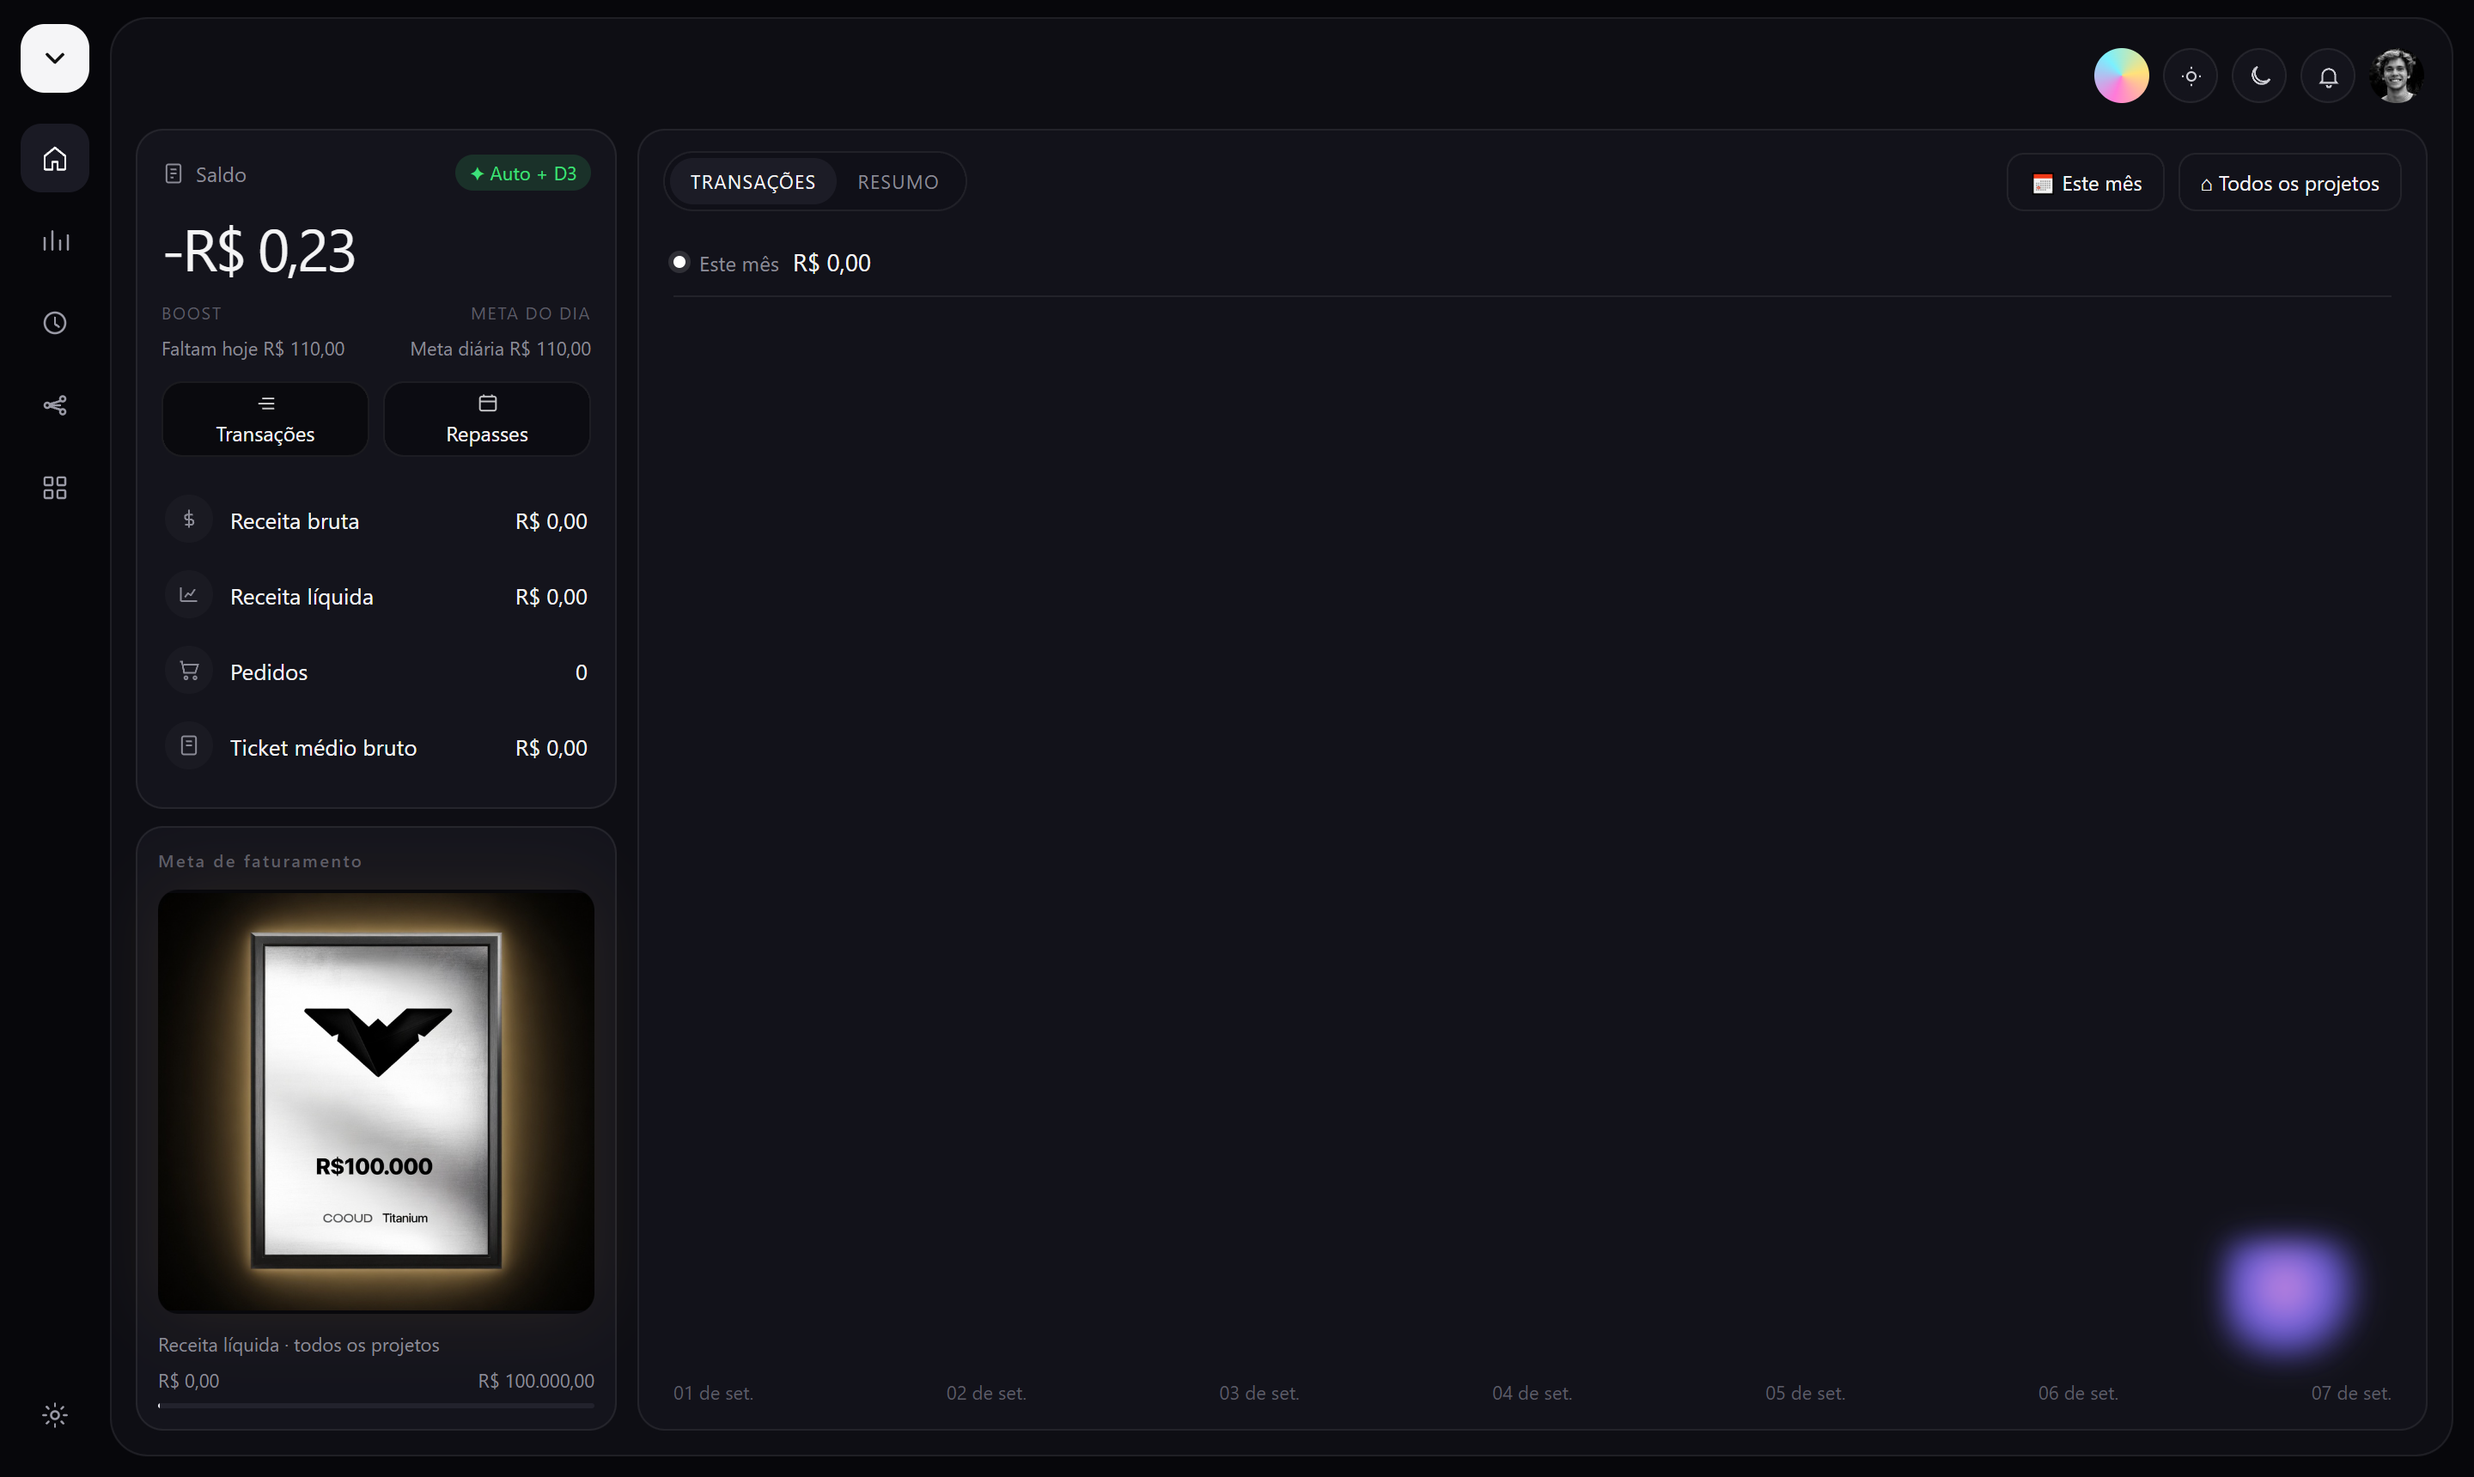
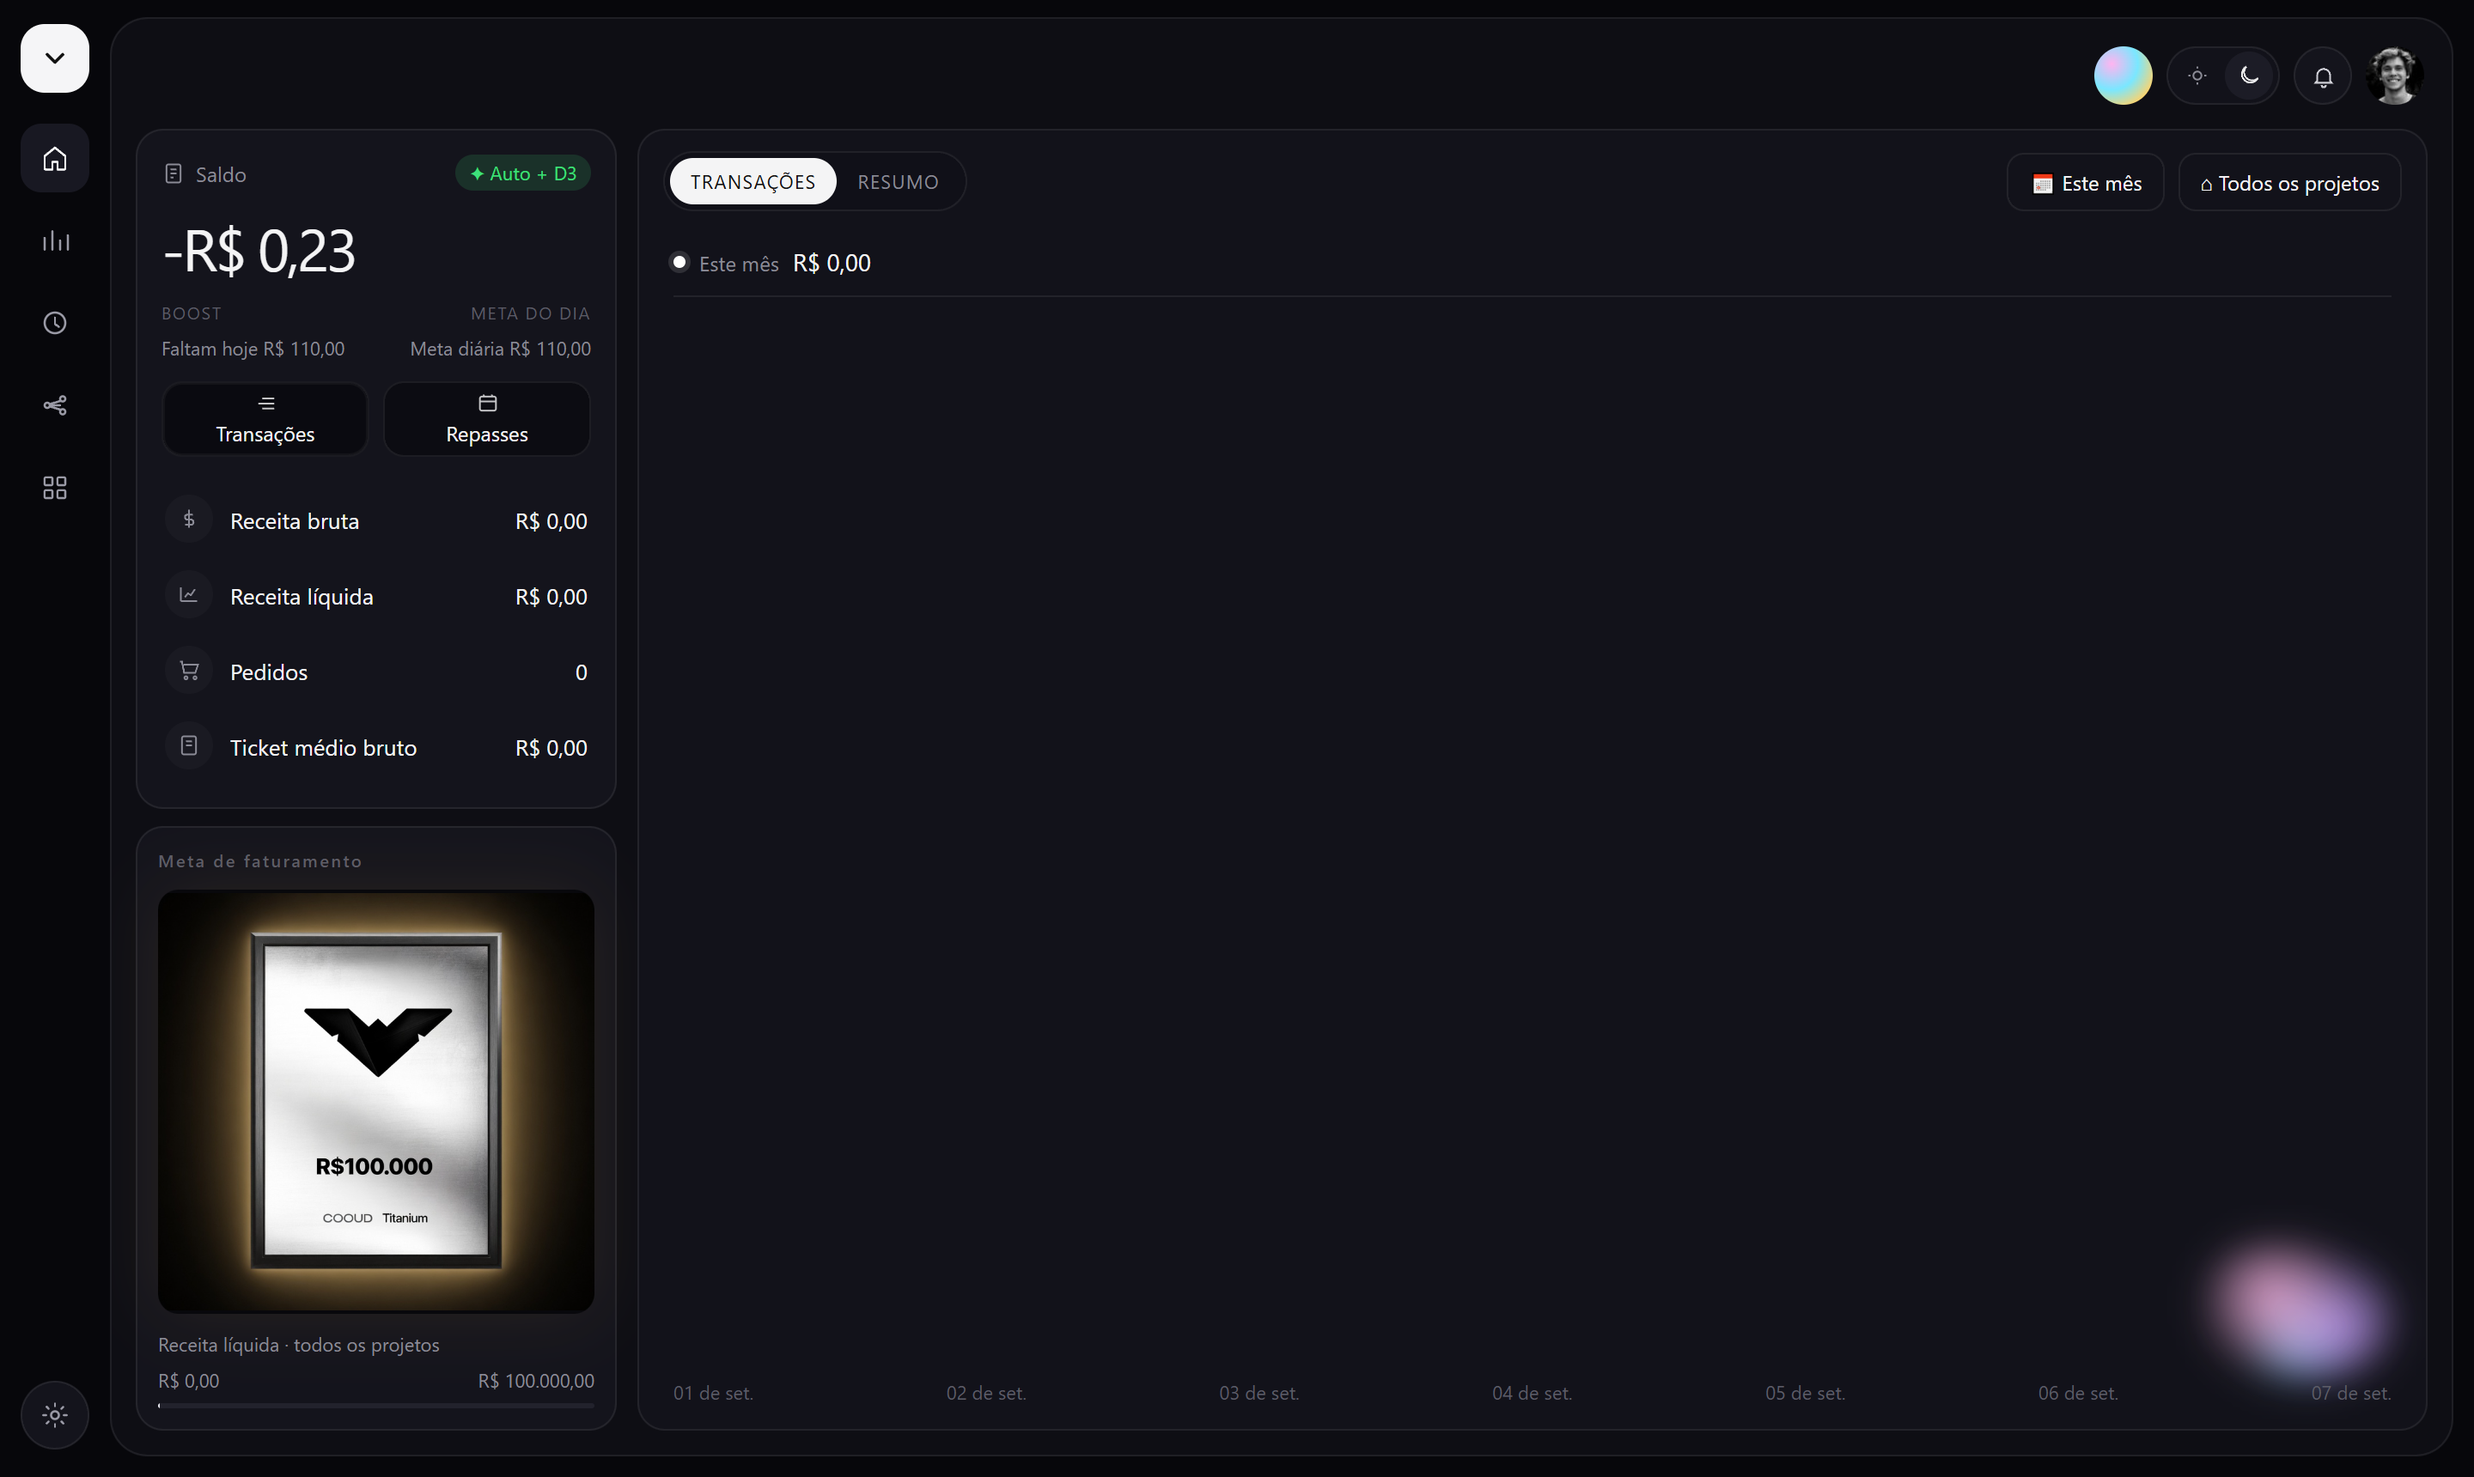
feat: match dashboard.cooud.com chrome (tabs, theme, blob)

diff --git a/output/preview/cooud-dashboard.html b/output/preview/cooud-dashboard.html
@@ -48,7 +48,10 @@
       text-decoration: none;
     }
     .rail a:hover { background: #16161e; color: #fff; }
-    .rail a.active { background: #1a1a24; color: #fff; }
+    .rail a.active { background: #181822; color: #fff; }
+    .rail .gear {
+      width: 40px; height: 40px; border-radius: 99px; background: #14141c; border: 1px solid var(--line);
+    }
     .rail .spacer { flex: 1; }
     .rail svg { width: 18px; height: 18px; stroke: currentColor; fill: none; stroke-width: 1.7; stroke-linecap: round; stroke-linejoin: round; }
 
@@ -68,15 +71,25 @@
       padding: 10px 16px 0;
     }
     .orb {
-      width: 32px; height: 32px; border-radius: 99px;
-      background: conic-gradient(from 200deg, #ff7ad9, #7af0ff, #ffe27a, #ff7ad9);
+      width: 34px; height: 34px; border-radius: 99px;
+      background: radial-gradient(circle at 30% 30%, #ffb4f0, #7ae7ff 45%, #ffd36a 80%);
     }
+    .theme {
+      display: flex; align-items: center; gap: 2px; height: 34px; padding: 3px;
+      border-radius: 99px; border: 1px solid var(--line); background: #12121a;
+    }
+    .theme button {
+      width: 28px; height: 28px; border: 0; border-radius: 99px; background: transparent;
+      color: #8b8b96; display: grid; place-items: center; cursor: pointer;
+    }
+    .theme button.on { background: #1c1c26; color: #eee; }
+    .theme svg { width: 14px; height: 14px; }
     .chip {
-      width: 32px; height: 32px; border-radius: 99px; border: 1px solid var(--line);
+      width: 34px; height: 34px; border-radius: 99px; border: 1px solid var(--line);
       background: #14141c; display: grid; place-items: center; color: #cfcfd6;
     }
     .chip svg { width: 15px; height: 15px; }
-    .ava { width: 32px; height: 32px; border-radius: 99px; object-fit: cover; }
+    .ava { width: 34px; height: 34px; border-radius: 99px; object-fit: cover; }
 
     .body {
       display: grid;
@@ -107,7 +120,7 @@
       background: #0c0c12; color: var(--fg); font: inherit; font-size: 12px;
       display: flex; flex-direction: column; align-items: center; justify-content: center; gap: 2px; cursor: pointer;
     }
-    .btn.primary { background: #0a0a0e; }
+    .btn.primary { background: #0a0a10; box-shadow: inset 0 0 0 1px rgba(255,255,255,.04); }
     .btn svg { width: 14px; height: 14px; opacity: .8; }
     .stat { display: flex; align-items: center; gap: 10px; padding: 8px 2px; font-size: 13px; }
     .stat .ico {
@@ -140,7 +153,7 @@
       border: 0; background: transparent; color: var(--muted); font: inherit; font-size: 11px;
       letter-spacing: .06em; text-transform: uppercase; padding: 6px 12px; border-radius: 99px; cursor: pointer;
     }
-    .seg button.on { background: #1c1c26; color: var(--fg); }
+    .seg button.on { background: #f4f4f5; color: #111; }
     .filters { margin-left: auto; display: flex; gap: 8px; }
     .dd {
       height: 34px; padding: 0 12px; border-radius: 10px; border: 1px solid var(--line);
@@ -158,9 +171,13 @@
       display: flex; justify-content: space-between; color: var(--dim); font-size: 11px;
     }
     .blob {
-      position: absolute; right: 28px; bottom: 40px; width: 90px; height: 70px;
-      background: radial-gradient(circle at 40% 40%, #f0a0ff 0%, #7a6cff 40%, transparent 70%);
-      filter: blur(8px); opacity: .85; pointer-events: none;
+      position: absolute; right: 18px; bottom: 28px; width: 110px; height: 80px;
+      background:
+        radial-gradient(circle at 35% 40%, #ffb8e8 0%, transparent 55%),
+        radial-gradient(circle at 70% 60%, #c9a0ff 0%, transparent 50%),
+        radial-gradient(circle at 50% 70%, #7ad7ff 0%, transparent 45%);
+      filter: blur(10px); opacity: .9; pointer-events: none;
+      border-radius: 40% 60% 50% 50%;
     }
   </style>
 </head>
@@ -186,7 +203,7 @@
         <svg viewBox="0 0 24 24"><rect x="4" y="4" width="6" height="6" rx="1"/><rect x="14" y="4" width="6" height="6" rx="1"/><rect x="4" y="14" width="6" height="6" rx="1"/><rect x="14" y="14" width="6" height="6" rx="1"/></svg>
       </a>
       <div class="spacer"></div>
-      <a href="#" aria-label="Ajustes">
+      <a class="gear" href="#" aria-label="Ajustes">
         <svg viewBox="0 0 24 24"><circle cx="12" cy="12" r="3"/><path d="M12 3v2M12 19v2M3 12h2M19 12h2M5.6 5.6l1.4 1.4M17 17l1.4 1.4M5.6 18.4 7 17M17 7l1.4-1.4"/></svg>
       </a>
     </nav>
@@ -194,8 +211,10 @@
     <section class="stage">
       <div class="top">
         <div class="orb" aria-hidden="true"></div>
-        <button class="chip" type="button" aria-label="Tema"><svg viewBox="0 0 24 24" fill="none" stroke="currentColor" stroke-width="1.7"><circle cx="12" cy="12" r="4"/><path d="M12 3v2M12 19v2M5 12H3M21 12h-2"/></svg></button>
-        <button class="chip" type="button" aria-label="Tema escuro"><svg viewBox="0 0 24 24" fill="none" stroke="currentColor" stroke-width="1.7"><path d="M21 14.5A8.5 8.5 0 1 1 9.5 3 7 7 0 0 0 21 14.5z"/></svg></button>
+        <div class="theme" role="group" aria-label="Tema">
+          <button type="button" aria-label="Claro"><svg viewBox="0 0 24 24" fill="none" stroke="currentColor" stroke-width="1.7"><circle cx="12" cy="12" r="4"/><path d="M12 3v2M12 19v2M5 12H3M21 12h-2"/></svg></button>
+          <button class="on" type="button" aria-label="Escuro"><svg viewBox="0 0 24 24" fill="none" stroke="currentColor" stroke-width="1.7"><path d="M21 14.5A8.5 8.5 0 1 1 9.5 3 7 7 0 0 0 21 14.5z"/></svg></button>
+        </div>
         <button class="chip" type="button" aria-label="Notificações"><svg viewBox="0 0 24 24" fill="none" stroke="currentColor" stroke-width="1.7"><path d="M6 16v-5a6 6 0 1 1 12 0v5l1.5 2H4.5z"/><path d="M10 20a2 2 0 0 0 4 0"/></svg></button>
         <img class="ava" alt="" src="https://i.pravatar.cc/64?img=12" />
       </div>
